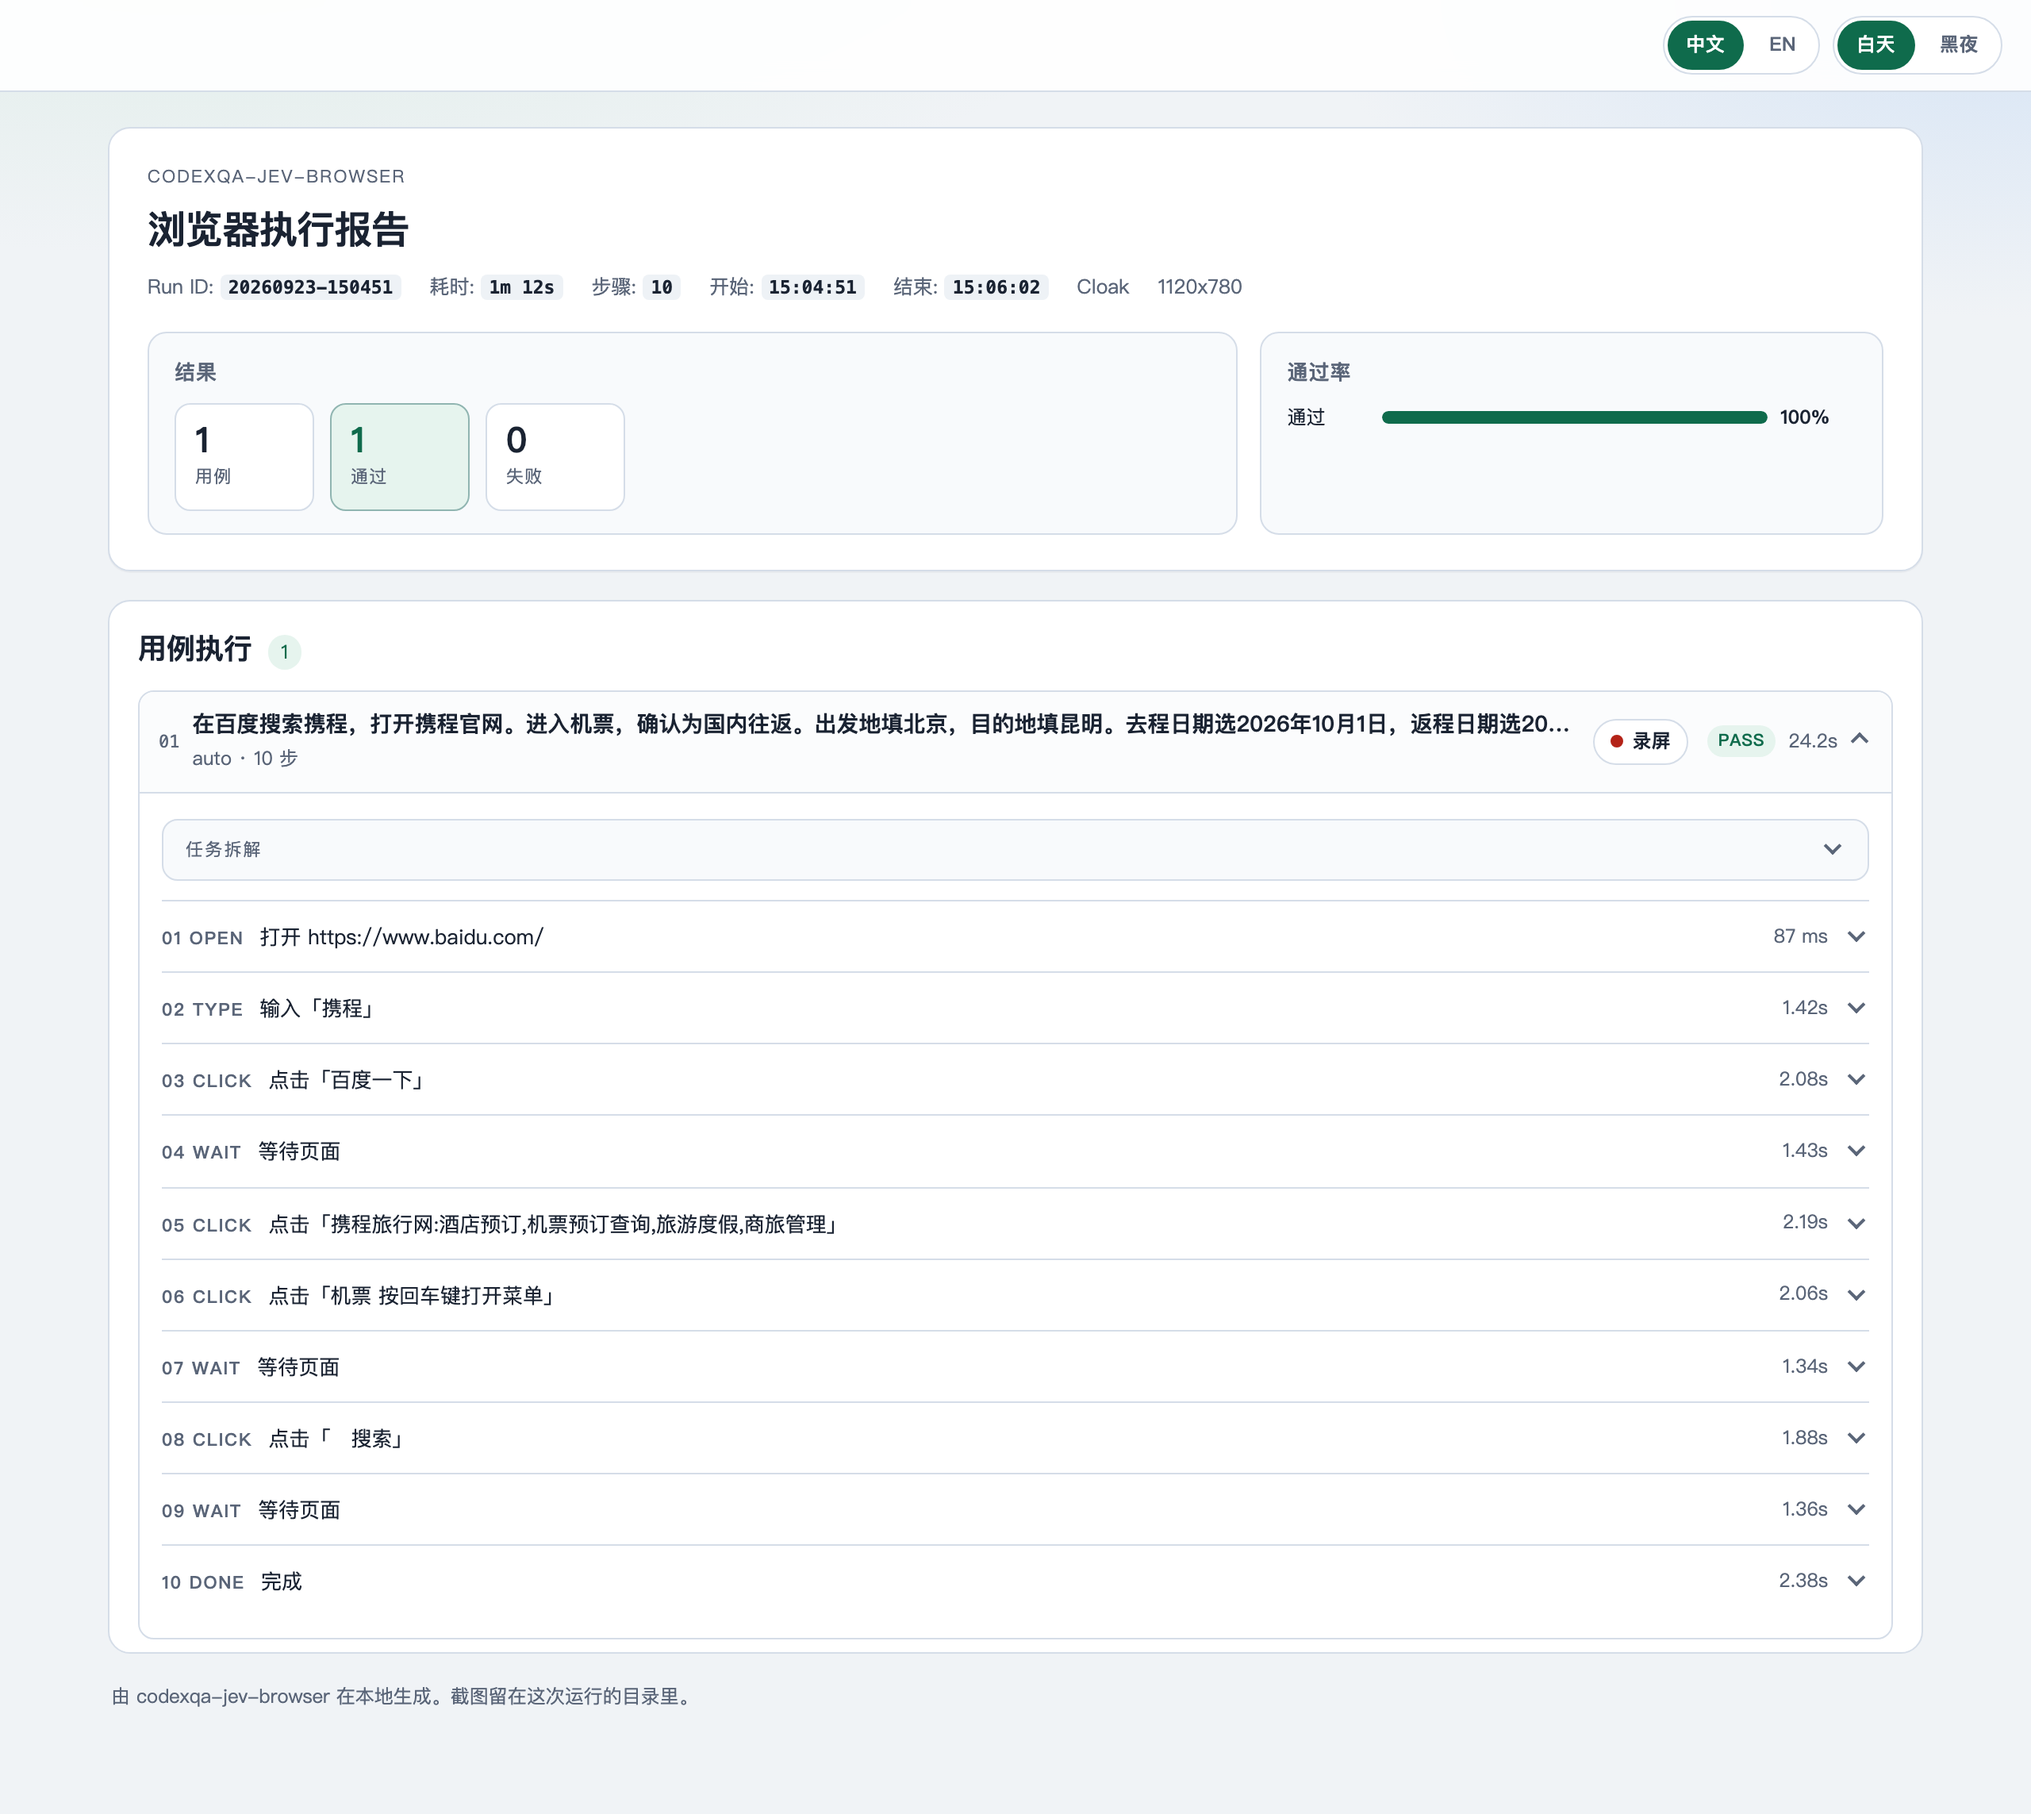
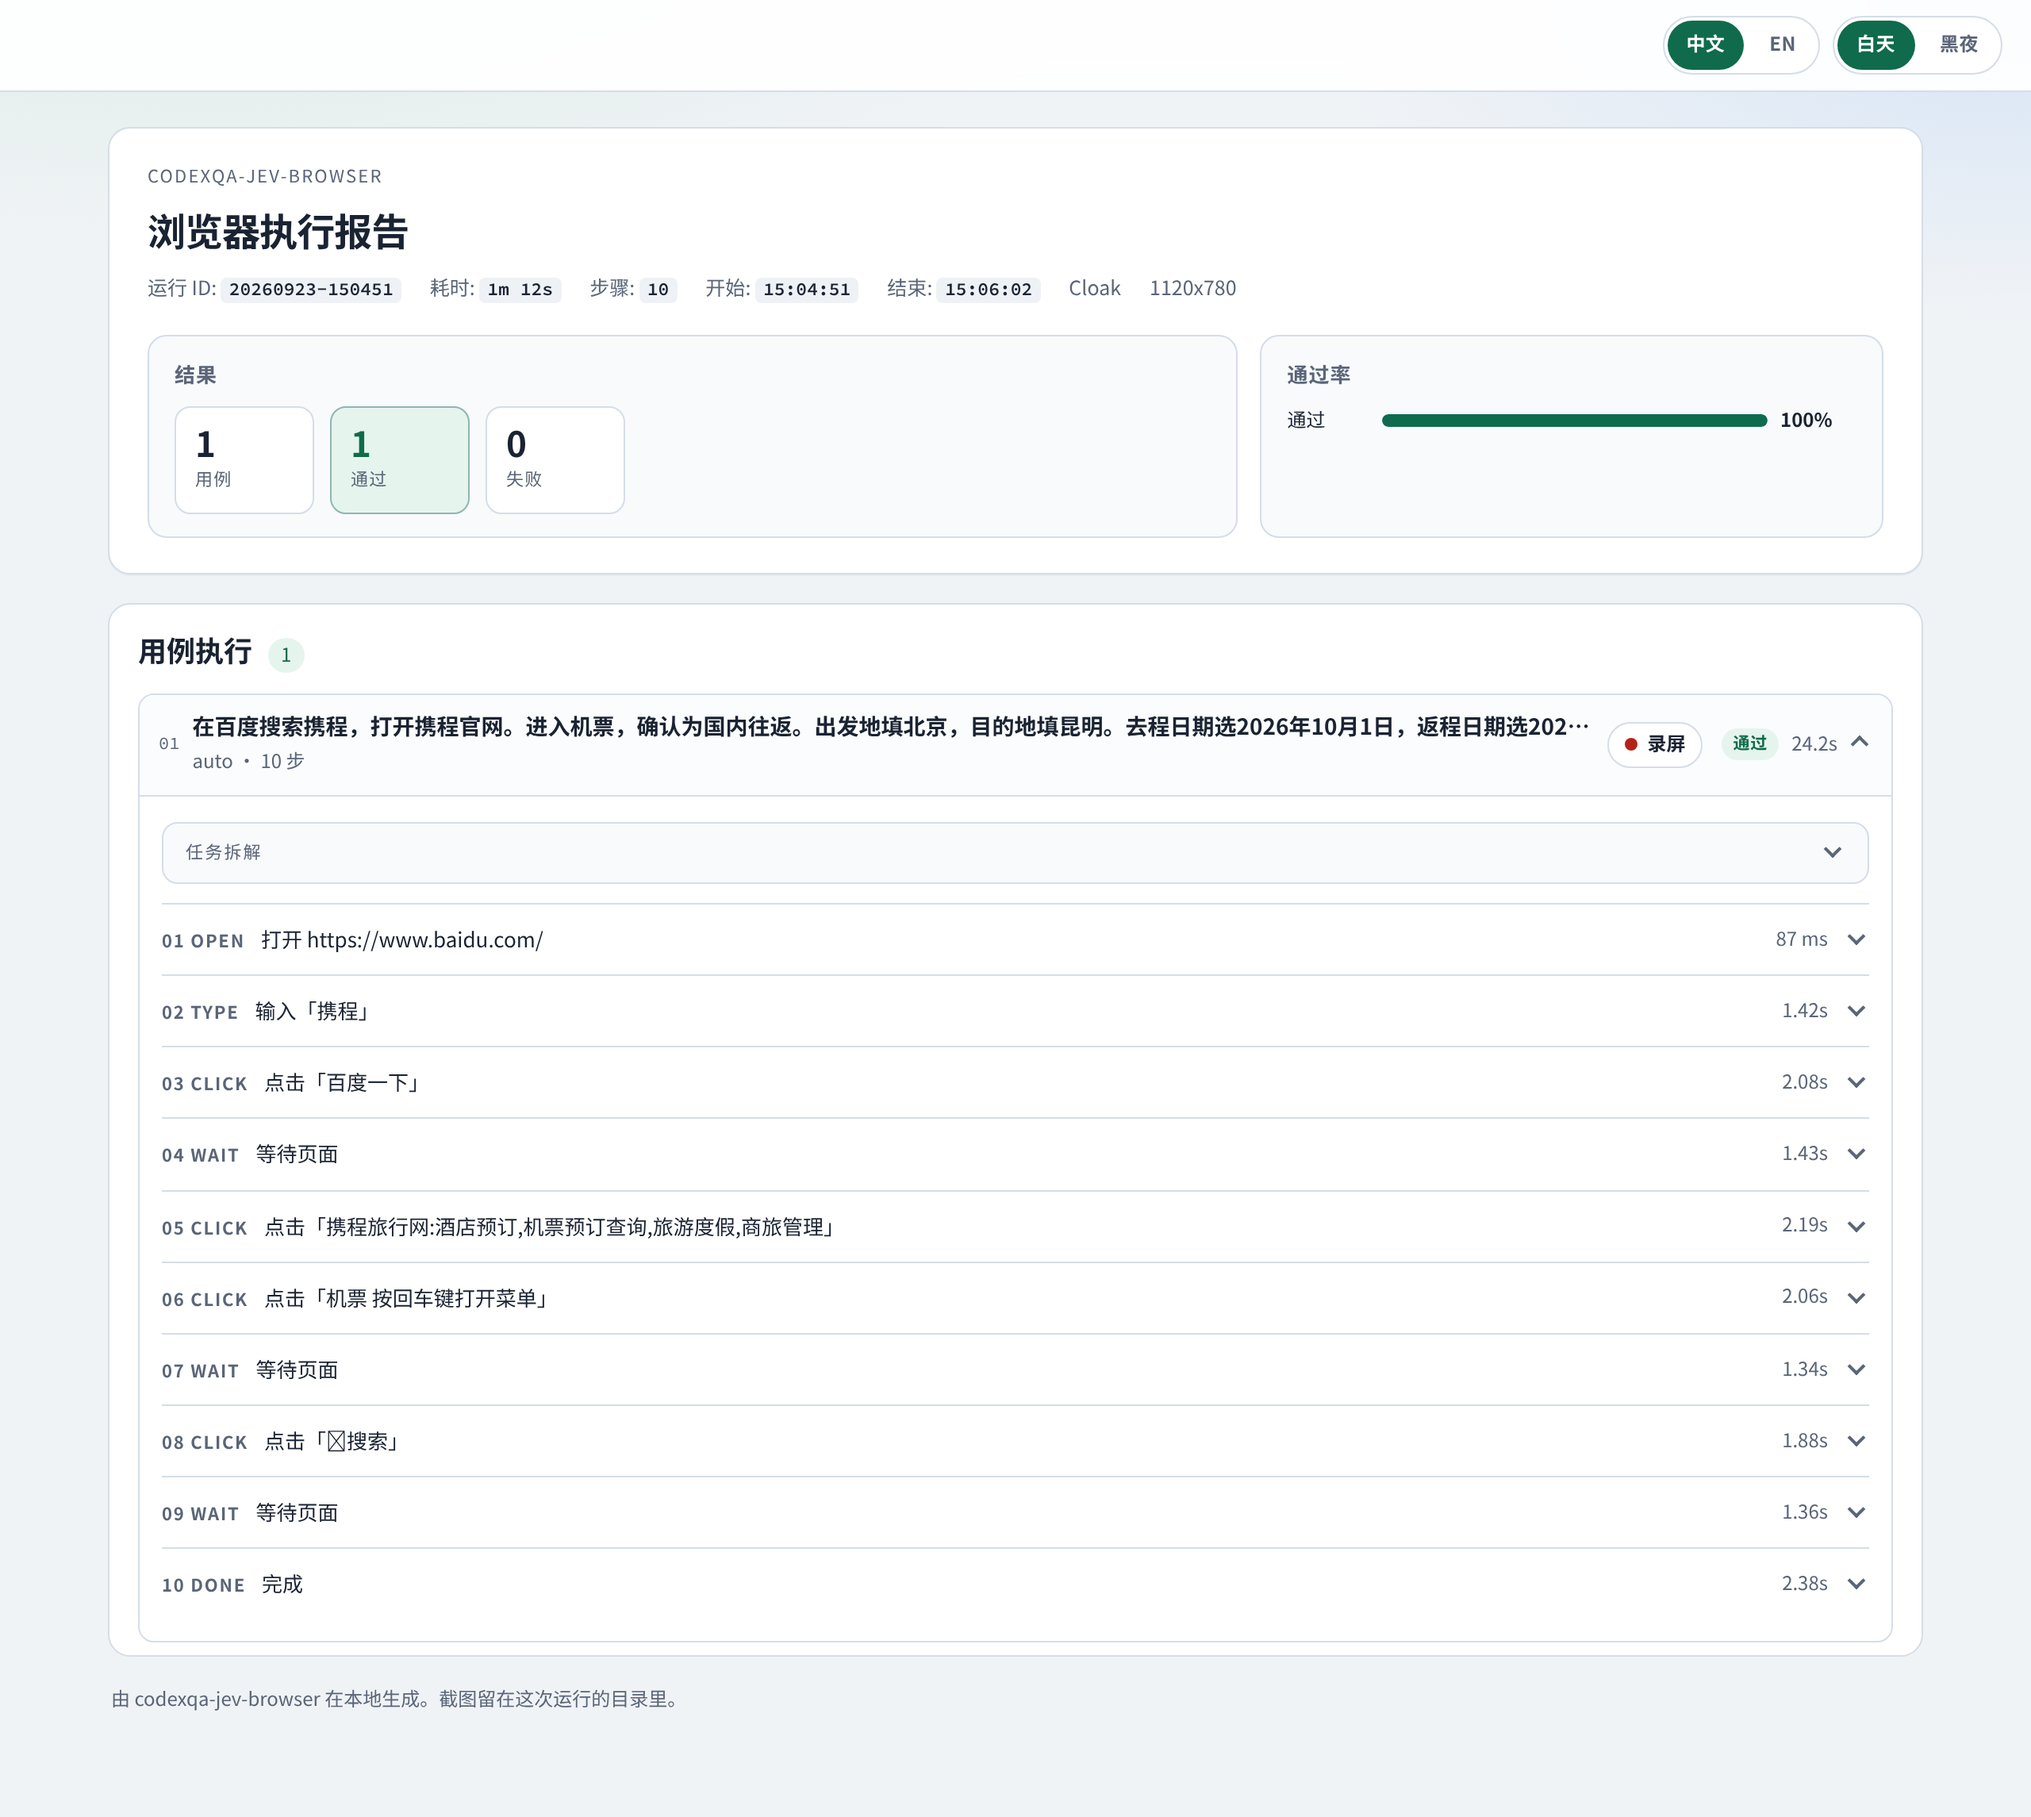
Show an English Jev Browser homepage in the English README and switch the remaining report labels.

diff --git a/skills/codexqa-jev-browser/src/report.ts b/skills/codexqa-jev-browser/src/report.ts
@@ -648,6 +648,18 @@ function statusLabel(status: string): string {
   return ({ pass: "PASS", fail: "FAIL", skip: "SKIP", blocked: "BLOCKED" }[status] ?? status).toUpperCase();
 }
 
+function statusHtml(status: string): string {
+  const labels: Record<string, [string, string]> = {
+    pass: ["PASS", "通过"],
+    fail: ["FAIL", "失败"],
+    skip: ["SKIP", "跳过"],
+    blocked: ["BLOCKED", "阻塞"],
+  };
+  const pair = labels[status];
+  if (!pair) return escapeHtml(statusLabel(status));
+  return `<span ${bilingual(pair[0], pair[1])}>${escapeHtml(pair[0])}</span>`;
+}
+
 function suiteChip(report: SuiteReport): { label: string; className: string; icon: string } {
   const t = totals(report);
   const failed = (t.fail ?? 0) + (t.blocked ?? 0);
@@ -714,7 +726,7 @@ function caseHtml(item: CaseResult, index: number, open: boolean, recording?: st
           <small title="${escapeHtml(item.source || item.id)}">${escapeHtml(source)} · <span ${bilingual(stepCountEn, stepCountZh)}>${escapeHtml(stepCountEn)}</span></small>
         </span>
         ${recordingButton(recording)}
-        <span class="pill ${escapeHtml(item.status)}">${escapeHtml(statusLabel(item.status))}</span>
+        <span class="pill ${escapeHtml(item.status)}">${statusHtml(item.status)}</span>
         <span class="time">${escapeHtml(formatDuration(item.durationMs))}</span>
         <span class="chevron"></span>
       </summary>

diff --git a/docs/assets/previews/jev-report.html b/docs/assets/previews/jev-report.html
@@ -356,7 +356,7 @@
       <p class="kicker">codexqa-jev-browser</p>
       <h1><span data-en="Browser execution report" data-zh="浏览器执行报告">Browser execution report</span></h1>
       <div class="meta-row">
-        <span>Run ID: <code>20260923-150451</code></span>
+        <span><span data-en="Run ID" data-zh="运行 ID">Run ID</span>: <code>20260923-150451</code></span>
         <span><span data-en="Duration" data-zh="耗时">Duration</span>: <b>1m 12s</b></span>
         <span><span data-en="Steps" data-zh="步骤">Steps</span>: <b>10</b></span>
         <span><span data-en="Start" data-zh="开始">Start</span>: <b title="2026-09-23 15:04:51">15:04:51</b></span>
@@ -398,7 +398,7 @@
           <small title="auto">auto · <span data-en="10 steps" data-zh="10 步">10 steps</span></small>
         </span>
         <button type="button" class="rec-row" data-video="jev-report/recording.mp4"><span data-en="Recording" data-zh="录屏">录屏</span></button>
-        <span class="pill pass">PASS</span>
+        <span class="pill pass"><span data-en="PASS" data-zh="通过">PASS</span></span>
         <span class="time">24.2s</span>
         <span class="chevron"></span>
       </summary>

diff --git a/skills/codexqa-jev-browser/src/report/template.html b/skills/codexqa-jev-browser/src/report/template.html
@@ -356,7 +356,7 @@
       <p class="kicker">codexqa-jev-browser</p>
       <h1><span data-en="Browser execution report" data-zh="浏览器执行报告">Browser execution report</span></h1>
       <div class="meta-row">
-        <span>Run ID: <code>{{run_id}}</code></span>
+        <span><span data-en="Run ID" data-zh="运行 ID">Run ID</span>: <code>{{run_id}}</code></span>
         <span><span data-en="Duration" data-zh="耗时">Duration</span>: <b>{{duration_label}}</b></span>
         <span><span data-en="Steps" data-zh="步骤">Steps</span>: <b>{{steps}}</b></span>
         <span><span data-en="Start" data-zh="开始">Start</span>: <b title="{{started_full}}">{{started_label}}</b></span>

diff --git a/README.md b/README.md
@@ -109,7 +109,7 @@ GitHub is the skill source; product site: [openqa.cn](https://openqa.cn/?utm_sou
 <p><strong><a href="skills/codexqa-jev-browser/README.md">codexqa-jev-browser</a></strong> · <a href="https://github.com/openqa-cn/jev-browser">Jev Browser repo</a></p>
 <p><strong>Verifies</strong> — whether a browser flow reaches the visible evidence named in the goal. A model's DONE is not a pass.</p>
 <p><strong>Does</strong> — drives Playwright Chromium from a page index (role, name, allowed operations). Replays YAML, Markdown, or API cases, or generates a case from a goal. Each run writes <code>reports/&lt;run-id&gt;/report.html</code> with the marked screenshot and the step result.</p>
-<p align="center"><a href="https://htmlpreview.github.io/?https://github.com/openqa-cn/codexqa/blob/main/docs/assets/previews/jev-report.html"><img src="docs/assets/previews/jev-report.png" alt="codexqa-jev-browser HTML execution report"></a></p>
+<p align="center"><a href="https://htmlpreview.github.io/?https://github.com/openqa-cn/codexqa/blob/main/docs/assets/previews/jev-report.html"><img src="docs/assets/previews/jev-report-en.png" alt="codexqa-jev-browser HTML execution report"></a></p>
 </td>
 <td width="50%" valign="top">
 <p><strong><a href="skills/codexqa-change-analysis/README.md">codexqa-change-analysis</a></strong></p>

diff --git a/skills/codexqa-jev-browser/README.md b/skills/codexqa-jev-browser/README.md
@@ -45,7 +45,7 @@ Typing uses characters the same Jev decision chooses from phrases already in the
 
 Each run writes `reports/<run-id>/report.html`: the case, every step, and the marked screenshot. Open the sample:
 
-<p align="center"><a href="https://htmlpreview.github.io/?https://github.com/openqa-cn/codexqa/blob/main/docs/assets/previews/jev-report.html"><img src="docs/jev-report.png" alt="Jev Browser HTML execution report" width="640"></a></p>
+<p align="center"><a href="https://htmlpreview.github.io/?https://github.com/openqa-cn/codexqa/blob/main/docs/assets/previews/jev-report.html"><img src="../../docs/assets/previews/jev-report-en.png" alt="Jev Browser HTML execution report" width="640"></a></p>
 
 ## Install
 
@@ -115,7 +115,7 @@ tests/              Offline checks. They do not call a live site or a live model
 agents/openai.yaml  Display name and short description for the Agents surface
 docs/jev-browser-overview.en.jpg English product overview at the top of this README
 docs/jev-browser-overview.jpg    Chinese product overview, used by README.zh-CN.md
-docs/jev-report.png Report screenshot in the Execution report section
+docs/jev-report.png Chinese report screenshot, used by README.zh-CN.md
 reports/            One folder per run. Git ignores it
 ```
 

diff --git a/docs/assets/previews/README.md b/docs/assets/previews/README.md
@@ -14,7 +14,7 @@ Sample HTML used as screenshots in the repository README. Most are **illustratio
 | `testcase-report.html` / `.png` | `codexqa-testcase-generator` | `generate_case_report.py --run-dir` (Web / Server / APP aggregate). `.png` is the Chinese homepage. `testcase-report-en.png` is the same page with EN selected; the root English README uses that shot |
 | `testdata-writeback.html` / `.png` | `codexqa-testdata-generator` | `{placeholder}` replaced with a backend-returned id |
 | `testcase-sample.html` / `.png` | `codexqa-testcase-generator` | Extra: one V56 server-end case table |
-| `jev-report.html` / `.png` | `codexqa-jev-browser` | Real run `20260923-150451` (Baidu search → Ctrip domestic round trip). PNG is the full page with the case open, Chinese, light theme. Step shots and `recording.mp4` sit under `jev-report/` |
+| `jev-report.html` / `.png` | `codexqa-jev-browser` | Real run `20260923-150451` (Baidu search → Ctrip domestic round trip). `.png` is the full page with the case open, Chinese, light theme. `jev-report-en.png` is the same page with EN selected; the root English README uses that shot. Step shots and `recording.mp4` sit under `jev-report/` |
 
 Rebuild illustration HTML (except `review-report.html` and `testcase-report.html`):
 
